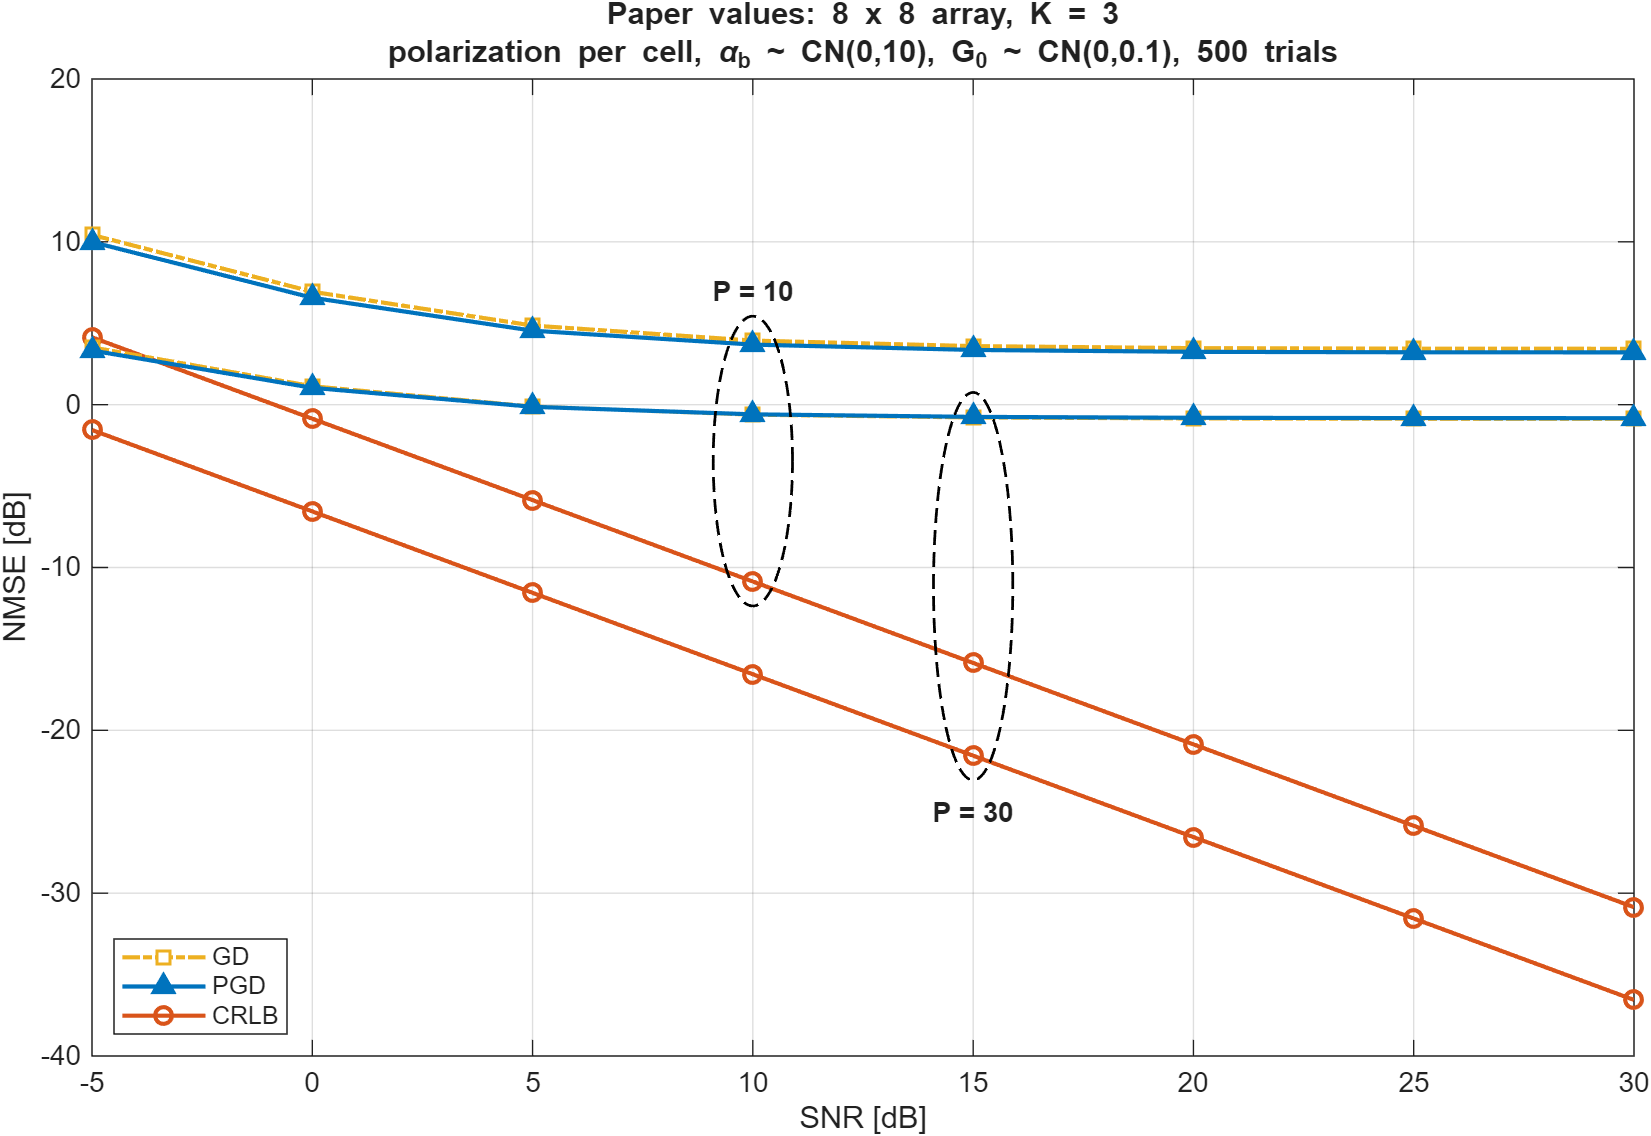
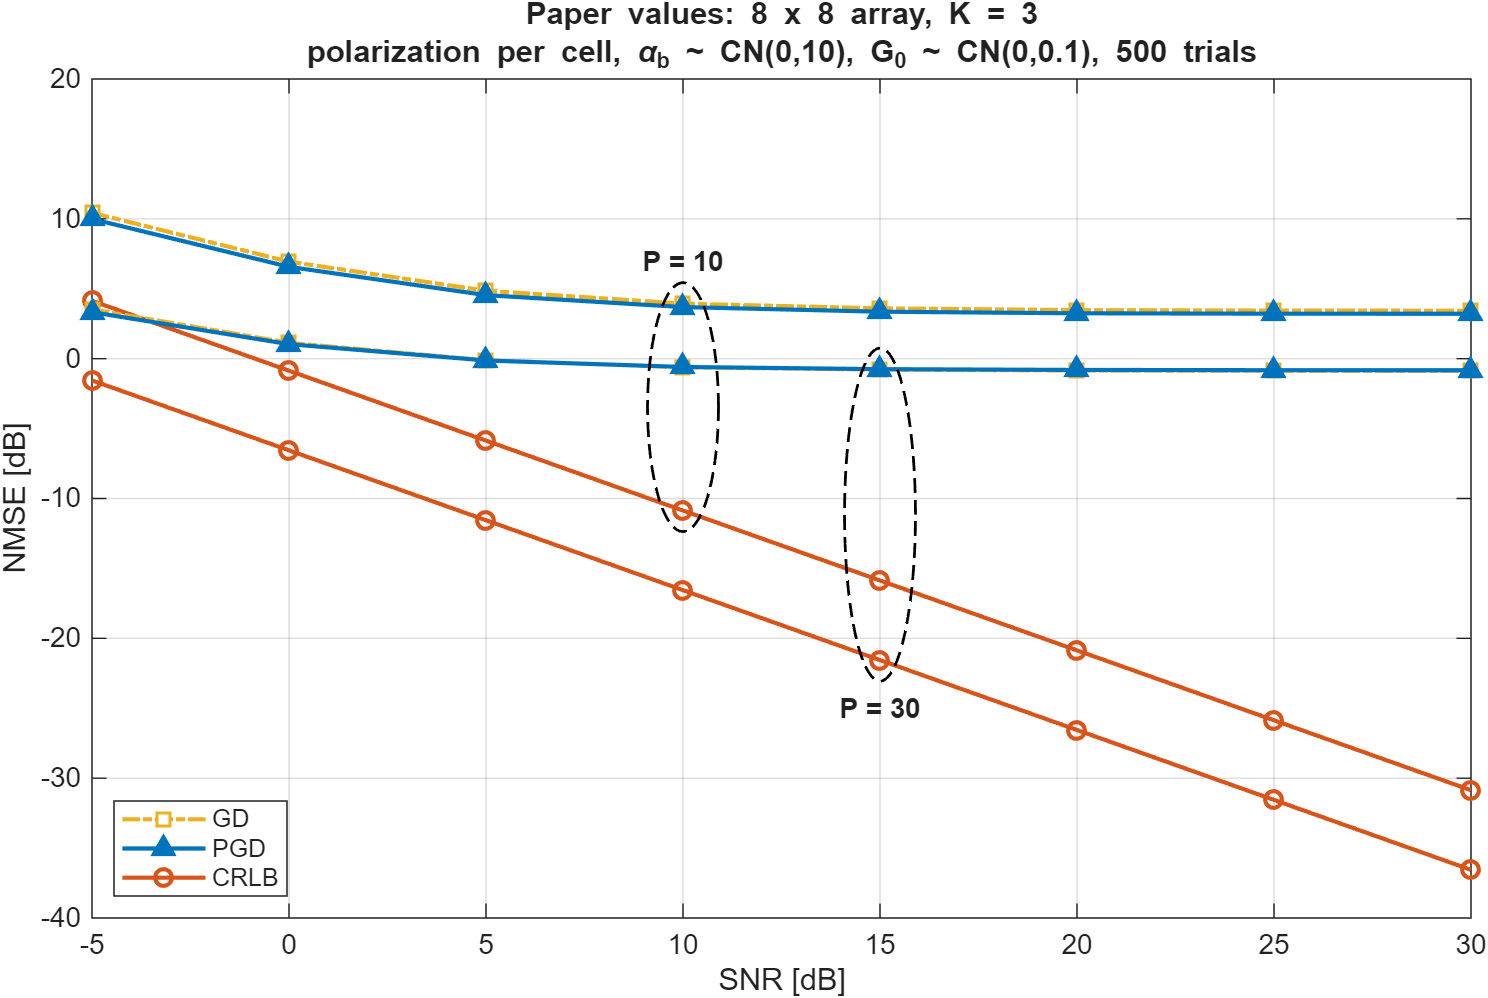
Fig. 3/4 literal and tuned: comment updates and refreshed outputs
- Fig. 3 literal/tuned: GS section labelled "one cell at a time"; re-run
  (results unchanged).
- Fig. 4 literal: header line removed; re-run.

diff --git a/Channel_Estimation_for_Rydberg_Atomic_Receivers/fig3/fig3_literal/fig3_paper_literal.m b/Channel_Estimation_for_Rydberg_Atomic_Receivers/fig3/fig3_literal/fig3_paper_literal.m
@@ -115,7 +115,7 @@ for pIndex = 1:numP
 
             Y = abs(A_signal + B + N_complex);              % I x P, magnitude observation, Eq.(8)
 
-            %% ---- Biased GS ----
+            %% ---- Biased GS (one cell at a time) ----
             G_hat_GS = zeros(I, K);                         % I x K
 
             for i = 1:I

diff --git a/Channel_Estimation_for_Rydberg_Atomic_Receivers/fig3/fig3_tuned/fig3_paper_tuned.m b/Channel_Estimation_for_Rydberg_Atomic_Receivers/fig3/fig3_tuned/fig3_paper_tuned.m
@@ -117,7 +117,7 @@ for pIndex = 1:numP
 
             Y = abs(A_signal + B + N_complex);              % I x P, magnitude observation, Eq.(8)
 
-            %% ---- Biased GS ----
+            %% ---- Biased GS (one cell at a time) ----
             G_hat_GS = zeros(I, K);                         % I x K
 
             for i = 1:I

diff --git a/Channel_Estimation_for_Rydberg_Atomic_Receivers/fig4/fig4_literal/fig4_paper_literal.m b/Channel_Estimation_for_Rydberg_Atomic_Receivers/fig4/fig4_literal/fig4_paper_literal.m
@@ -1,6 +1,5 @@
 %% fig4_paper_literal.m
 % Fig. 4 of Xu et al., "Channel Estimation for Rydberg Atomic Receivers":
-% NMSE vs SNR, 2D array, GD vs PGD vs CRLB, using the values stated in the paper.
 
 clear; clc; close all;
 rng(1);
